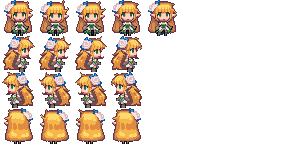
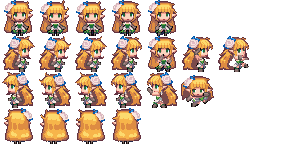
대충 마무리

Changed region(s): [[0.5, 0.25, 0.875, 0.75]]

diff --git a/src/player.js b/src/player.js
@@ -4,10 +4,10 @@ import Animation from './animation.js';
 
 const imageUrl = "images/character.png";
 const animationDefs = [
-  { 'stand': { duration: .5, loop: true, frames: [0, 1, 2, 3] } },
-  { 'stand': { duration: .5, loop: true, frames: [8, 9, 10, 11] } },
-  { 'stand': { duration: .5, loop: true, frames: [16, 17, 18, 19] } },
-  { 'stand': { duration: .5, loop: true, frames: [24, 25, 26, 27] } }
+  { 'stand': { duration: .5, loop: true, frames: [0, 1, 2, 3] }, dance:{duration:2, loop:true, frames:[12, 13, 14, 20, 21]} },
+  { 'stand': { duration: .5, loop: true, frames: [8, 9, 10, 11] }, dance:{duration:2, loop:true, frames:[12, 13, 14, 20, 21]}  },
+  { 'stand': { duration: .5, loop: true, frames: [16, 17, 18, 19] }, dance:{duration:2, loop:true, frames:[12, 13, 14, 20, 21]}  },
+  { 'stand': { duration: .5, loop: true, frames: [24, 25, 26, 27] }, dance:{duration:2, loop:true, frames:[12, 13, 14, 20, 21]}  },
 ];
 
 
@@ -28,11 +28,14 @@ class Player{
     let spr = new SpriteSheet(this.img, 36, 36);
     
     let standAnimations = [];
+    let danceAnimations = [];
     animationDefs.forEach(a => { 
       let anim = new Animation(spr, a.stand.frames, a.stand.duration, a.stand.loop);
+      let dance = new Animation(spr, a.dance.frames, a.dance.duration, a.dance.loop);
       standAnimations.push(anim);
+      danceAnimations.push(dance);
     });
-    this.animations = { stand: standAnimations };
+    this.animations = { stand: standAnimations, dance:danceAnimations };
   }
 
   setPos(x, y) {
@@ -46,6 +49,9 @@ class Player{
 
   update(delta, key) {
     this.elapsed += delta;
+    if (this.parent.allClear) {
+      this.state = "dance";
+    }
     this.animations[this.state][this.direction].update(delta);
     if (this.x === this.targetX && this.y === this.targetY) {
       if (key.isDown(37)) {
@@ -90,9 +96,9 @@ class Player{
     } else {
       var w = (this.targetX - this.x) * config.tile_size;
       var h = (this.targetY - this.y) * config.tile_size;
-      this.rx = (this.x * config.tile_size) + (w * this.elapsed / 0.1);
-      this.ry = (this.y * config.tile_size) + (h * this.elapsed / 0.1);
-      if (this.elapsed >= 0.1) {
+      this.rx = (this.x * config.tile_size) + (w * this.elapsed / 0.15);
+      this.ry = (this.y * config.tile_size) + (h * this.elapsed / 0.15);
+      if (this.elapsed >= 0.15) {
         this.x = this.targetX;
         this.y = this.targetY;
         this.rx = this.x * config.tile_size;
@@ -105,7 +111,38 @@ class Player{
     ctx.save();
     ctx.translate(this.rx, this.ry);
     //ctx.drawImage(this.img, 0, this.direction * 30, 20, 30, 0, -15, 20, 30);
-    this.animations[this.state][this.direction].draw(ctx, -3, -16);
+    if (this.state == "dance") {
+      ctx.fillStyle = "#282b34";
+      ctx.fillRect(-25, -50, 90, 30);
+      ctx.lineWidth = 1;
+      ctx.strokeStyle = "#625e7f";
+      ctx.strokeRect(-24, -49, 88, 28);
+      ctx.fillStyle = "white";
+      ctx.font = "12px sans-serif";
+      ctx.textAlign = "center";
+      ctx.fillText("싹틔워봅시다", 18, -30);
+      let x = 0, y = 0;
+      switch (this.animations[this.state][this.direction].cur) {
+        case 0:
+          x = 5; y = -25;  
+          break;
+        case 1:
+          x = 10; y = 15;  
+          break;
+        case 2:
+          x = -15; y = -16;
+          break;
+        case 3:
+          x = -5; y = -20;  
+          break;
+        case 4:
+          x = -3; y = 10;  
+          break;
+      }
+      this.animations[this.state][this.direction].draw(ctx, x, y);
+    } else {
+      this.animations[this.state][this.direction].draw(ctx, -3, -16);
+    }
     ctx.restore();
   }
 }

diff --git a/src/stagedata.js b/src/stagedata.js
@@ -54,6 +54,7 @@ export default [
   {"start":{"x":4,"y":5},"time":18,"tiles":[[0,0,0,1,1,1,1,1,1,1],[1,1,1,1,0,1,1,1,0,1],[1,0,0,1,1,1,0,1,1,1],[1,1,1,1,1,1,1,1,1,1],[0,0,0,0,1,1,0,1,1,1],[0,1,1,1,1,1,0,1,1,1],[0,1,0,1,0,1,1,1,1,1],[0,1,1,1,1,1,1,0,1,1],[0,0,1,0,1,1,1,1,1,1],[0,0,1,1,1,1,1,1,1,1]]},
   {"start":{"x":4,"y":4},"time":15,"tiles":[[0,0,0,0,0,0,0,0,0,0],[1,1,1,0,0,0,0,1,1,1],[1,1,1,1,1,1,1,1,1,1],[0,1,1,1,1,1,1,1,1,0],[0,0,1,1,1,1,1,1,0,0],[0,0,1,1,1,1,1,1,0,0],[0,0,0,1,1,1,1,0,0,0],[0,1,1,1,1,1,1,1,1,0],[0,1,1,1,1,1,1,1,1,0],[0,1,1,0,0,0,0,1,1,0]]},
   {"start":{"x":7,"y":5},"time":20,"tiles":[[1,1,1,1,1,0,0,0,0,0],[1,1,1,0,1,1,1,1,1,0],[1,1,1,1,1,1,0,1,1,0],[1,0,1,1,0,1,1,1,0,0],[1,1,1,1,1,1,1,1,1,1],[0,0,1,1,1,1,1,1,0,1],[0,1,1,1,1,1,1,0,0,1],[0,1,0,1,1,0,1,1,1,1],[0,1,0,1,1,1,1,1,1,0],[0,1,1,1,0,0,0,1,1,0]]},
-  {"start":{"x":0,"y":5},"time":0,"tiles":[[0,0,0,0,0,0,0,0,1,1],[0,0,0,1,1,0,0,0,1,1],[0,0,0,1,1,0,0,0,1,1],[0,0,1,1,1,1,0,0,1,1],[0,1,1,0,0,1,1,0,1,1],[1,1,0,0,0,0,1,1,1,1],[0,0,0,0,0,0,0,0,0,1],[1,1,1,1,1,1,1,1,1,1],[0,0,0,0,0,0,0,1,1,0],[0,0,0,0,0,0,0,1,1,0]]},
-  {"start":{"x":4,"y":4},"time":0,"tiles":[[1,1,1,1,1,1,1,1,1,1],[1,1,1,0,1,1,1,1,0,1],[1,0,1,1,1,0,1,1,0,1],[1,1,1,1,1,1,1,1,1,1],[0,0,0,0,1,1,0,0,0,0],[1,1,1,1,1,1,1,1,1,0],[1,1,1,1,1,1,1,1,1,0],[0,0,0,0,0,0,0,1,1,0],[0,0,0,0,0,0,0,1,1,0],[0,0,0,0,0,0,0,1,1,0]]}
+  {"start":{"x":0,"y":5},"time":15,"tiles":[[0,0,0,0,0,0,0,0,1,1],[0,0,0,1,1,0,0,0,1,1],[0,0,0,1,1,0,0,0,1,1],[0,0,1,1,1,1,0,0,1,1],[0,1,1,0,0,1,1,0,1,1],[1,1,0,0,0,0,1,1,1,1],[0,0,0,0,0,0,0,0,0,1],[1,1,1,1,1,1,1,1,1,1],[0,0,0,0,0,0,0,1,1,0],[0,0,0,0,0,0,0,1,1,0]]},
+  { "start": { "x": 4, "y": 4 }, "time": 15, "tiles": [[1, 1, 1, 1, 1, 1, 1, 1, 1, 1], [1, 1, 1, 0, 1, 1, 1, 1, 0, 1], [1, 0, 1, 1, 1, 0, 1, 1, 0, 1], [1, 1, 1, 1, 1, 1, 1, 1, 1, 1], [0, 0, 0, 0, 1, 1, 0, 0, 0, 0], [1, 1, 1, 1, 1, 1, 1, 1, 1, 0], [1, 1, 1, 1, 1, 1, 1, 1, 1, 0], [0, 0, 0, 0, 0, 0, 0, 1, 1, 0], [0, 0, 0, 0, 0, 0, 0, 1, 1, 0], [0, 0, 0, 0, 0, 0, 0, 1, 1, 0]] },
+  {"start":{"x":0,"y":0},"time":12,"tiles":[[1,1,1,1,1,1,1,1,1,1],[1,1,1,1,1,1,1,1,1,1],[1,1,1,1,1,1,1,1,1,1],[1,1,1,1,1,1,1,1,1,1],[1,1,1,1,1,1,1,1,1,1],[1,1,1,1,1,1,1,1,1,1],[1,1,1,1,1,1,1,1,1,1],[1,1,1,1,1,1,1,1,1,1],[1,1,1,1,1,1,1,1,1,1],[1,1,1,1,1,1,1,1,1,1]]}
 ]

diff --git a/src/game.js b/src/game.js
@@ -55,6 +55,7 @@ class Game {
     this.current = performance.now() / 1000;
     this.elapsed = 0;
     this.timeRemain = 10;
+    this.allClear = false;
 
     requestAnimationFrame(this.update.bind(this));
 
@@ -81,13 +82,18 @@ class Game {
   }
 
   setStage() {
-    this.stage = new Stage(this.stage.level + 1);
-    this.stage.showGrid = true;
-    this.children[0] = this.stage;
-    this.state = 0;
-    this.elapsed = 0;
-    this.player.setPos(this.stage.startX, this.stage.startY);
-    this.timeRemain = this.stage.time;
+    if (this.stage.level === 26) {
+      this.allClear = true;
+      this.state = 4;
+    } else {
+      this.stage = new Stage(this.stage.level + 1);
+      this.stage.showGrid = true;
+      this.children[0] = this.stage;
+      this.state = 0;
+      this.elapsed = 0;
+      this.player.setPos(this.stage.startX, this.stage.startY);
+      this.timeRemain = this.stage.time;
+    }  
   }
 
   focus() {
@@ -174,8 +180,11 @@ class Game {
         this.timeRemain = this.stage.time;
       }
     } else if (this.state === 1) {
-      this.ctx.fillStyle = "yellowgreen";
+      this.ctx.fillStyle = "hsl("+(this.timeRemain / this.stage.time * 120)+", 100%, 50%)";
       this.ctx.fillRect(paddingLeft, 300 + paddingTop, 300 * (this.timeRemain / this.stage.time), 10);
+      this.ctx.fillStyle = "white";
+      this.ctx.font = "12px monospace";
+      this.ctx.fillText("Stage " + this.stage.level, 0, 12);
       if (this.timeRemain <= 0) {
         this.state = 2;
       }
@@ -211,6 +220,8 @@ class Game {
         this.ctx.fillText("CLEAR", this.canv.width / 2, this.canv.height / 2);
         this.ctx.restore();
       }
+    } else if (this.state === 4) {
+      
     }
     this.key.update(this.keys);
     requestAnimationFrame(this.update.bind(this));

diff --git a/index.html b/index.html
@@ -5,8 +5,11 @@
 <style type="text/css">
   html, body { margin:0; padding:0; }
   body {background-image:url('images/dfbg.png'); width:1903px; height:1788px; }
-  @media (min-width:1920px){
+  @media (min-width:1900px){
     #container {position:absolute; top:889px; left:10px; }
+  }
+  @media (max-width:1899px){
+    #container {display:none;}
   }
   
 </style>

diff --git a/src/stage.js b/src/stage.js
@@ -70,7 +70,9 @@ class Stage{
   }
 
   render(ctx) {
+    
     ctx.drawImage(this.canvas, 0, 0);
+    
   }
 
   isClear() {
